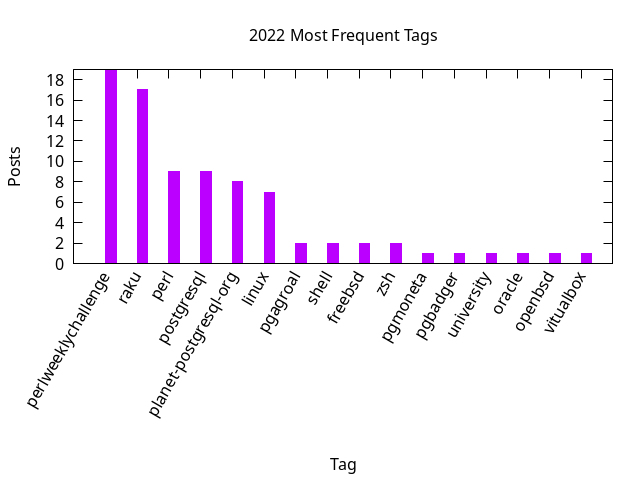
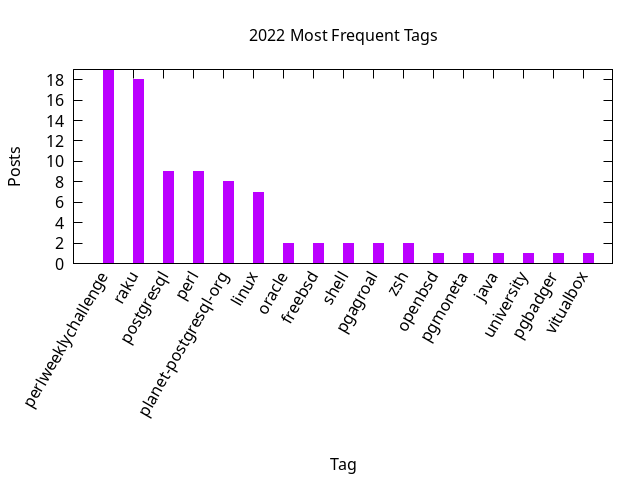
Stats update

Changed region(s): [[0.0312, 0.1562, 0.9375, 0.875]]

diff --git a/_includes/stats/2022.md b/_includes/stats/2022.md
@@ -1,25 +1,26 @@
 <a name="2022" />
 ## 2022 (work in progress)
 
-**35 total posts** have been written on 2022.
-There have been *16 different tags* used, the most
+**37 total posts** have been written on 2022.
+There have been *17 different tags* used, the most
 popular being (sorted by number of posts):
  
 - *perlweeklychallenge* (19 posts)  
-- *raku* (17 posts)  
-- *perl* (9 posts)  
+- *raku* (18 posts)  
 - *postgresql* (9 posts)  
+- *perl* (9 posts)  
 - *planet-postgresql-org* (8 posts)  
 - *linux* (7 posts)  
-- *pgagroal* (2 posts)  
-- *shell* (2 posts)  
+- *oracle* (2 posts)  
 - *freebsd* (2 posts)  
+- *shell* (2 posts)  
+- *pgagroal* (2 posts)  
 - *zsh* (2 posts)  
-- *pgmoneta* (1 posts)  
-- *pgbadger* (1 posts)  
-- *university* (1 posts)  
-- *oracle* (1 posts)  
 - *openbsd* (1 posts)  
+- *pgmoneta* (1 posts)  
+- *java* (1 posts)  
+- *university* (1 posts)  
+- *pgbadger* (1 posts)  
 - *vitualbox* (1 posts).<br/>
 <br/>
 The following is the overall 2022 post ratio by month:
@@ -39,7 +40,7 @@ The following is the overall 2022 post ratio by tag (showing max 30 tags):
 
 <div align="right">
 <small>
-Last generated on 2022-04-11 at 17:23
+Last generated on 2022-04-12 at 12:16
 </small>
 </div>
 
